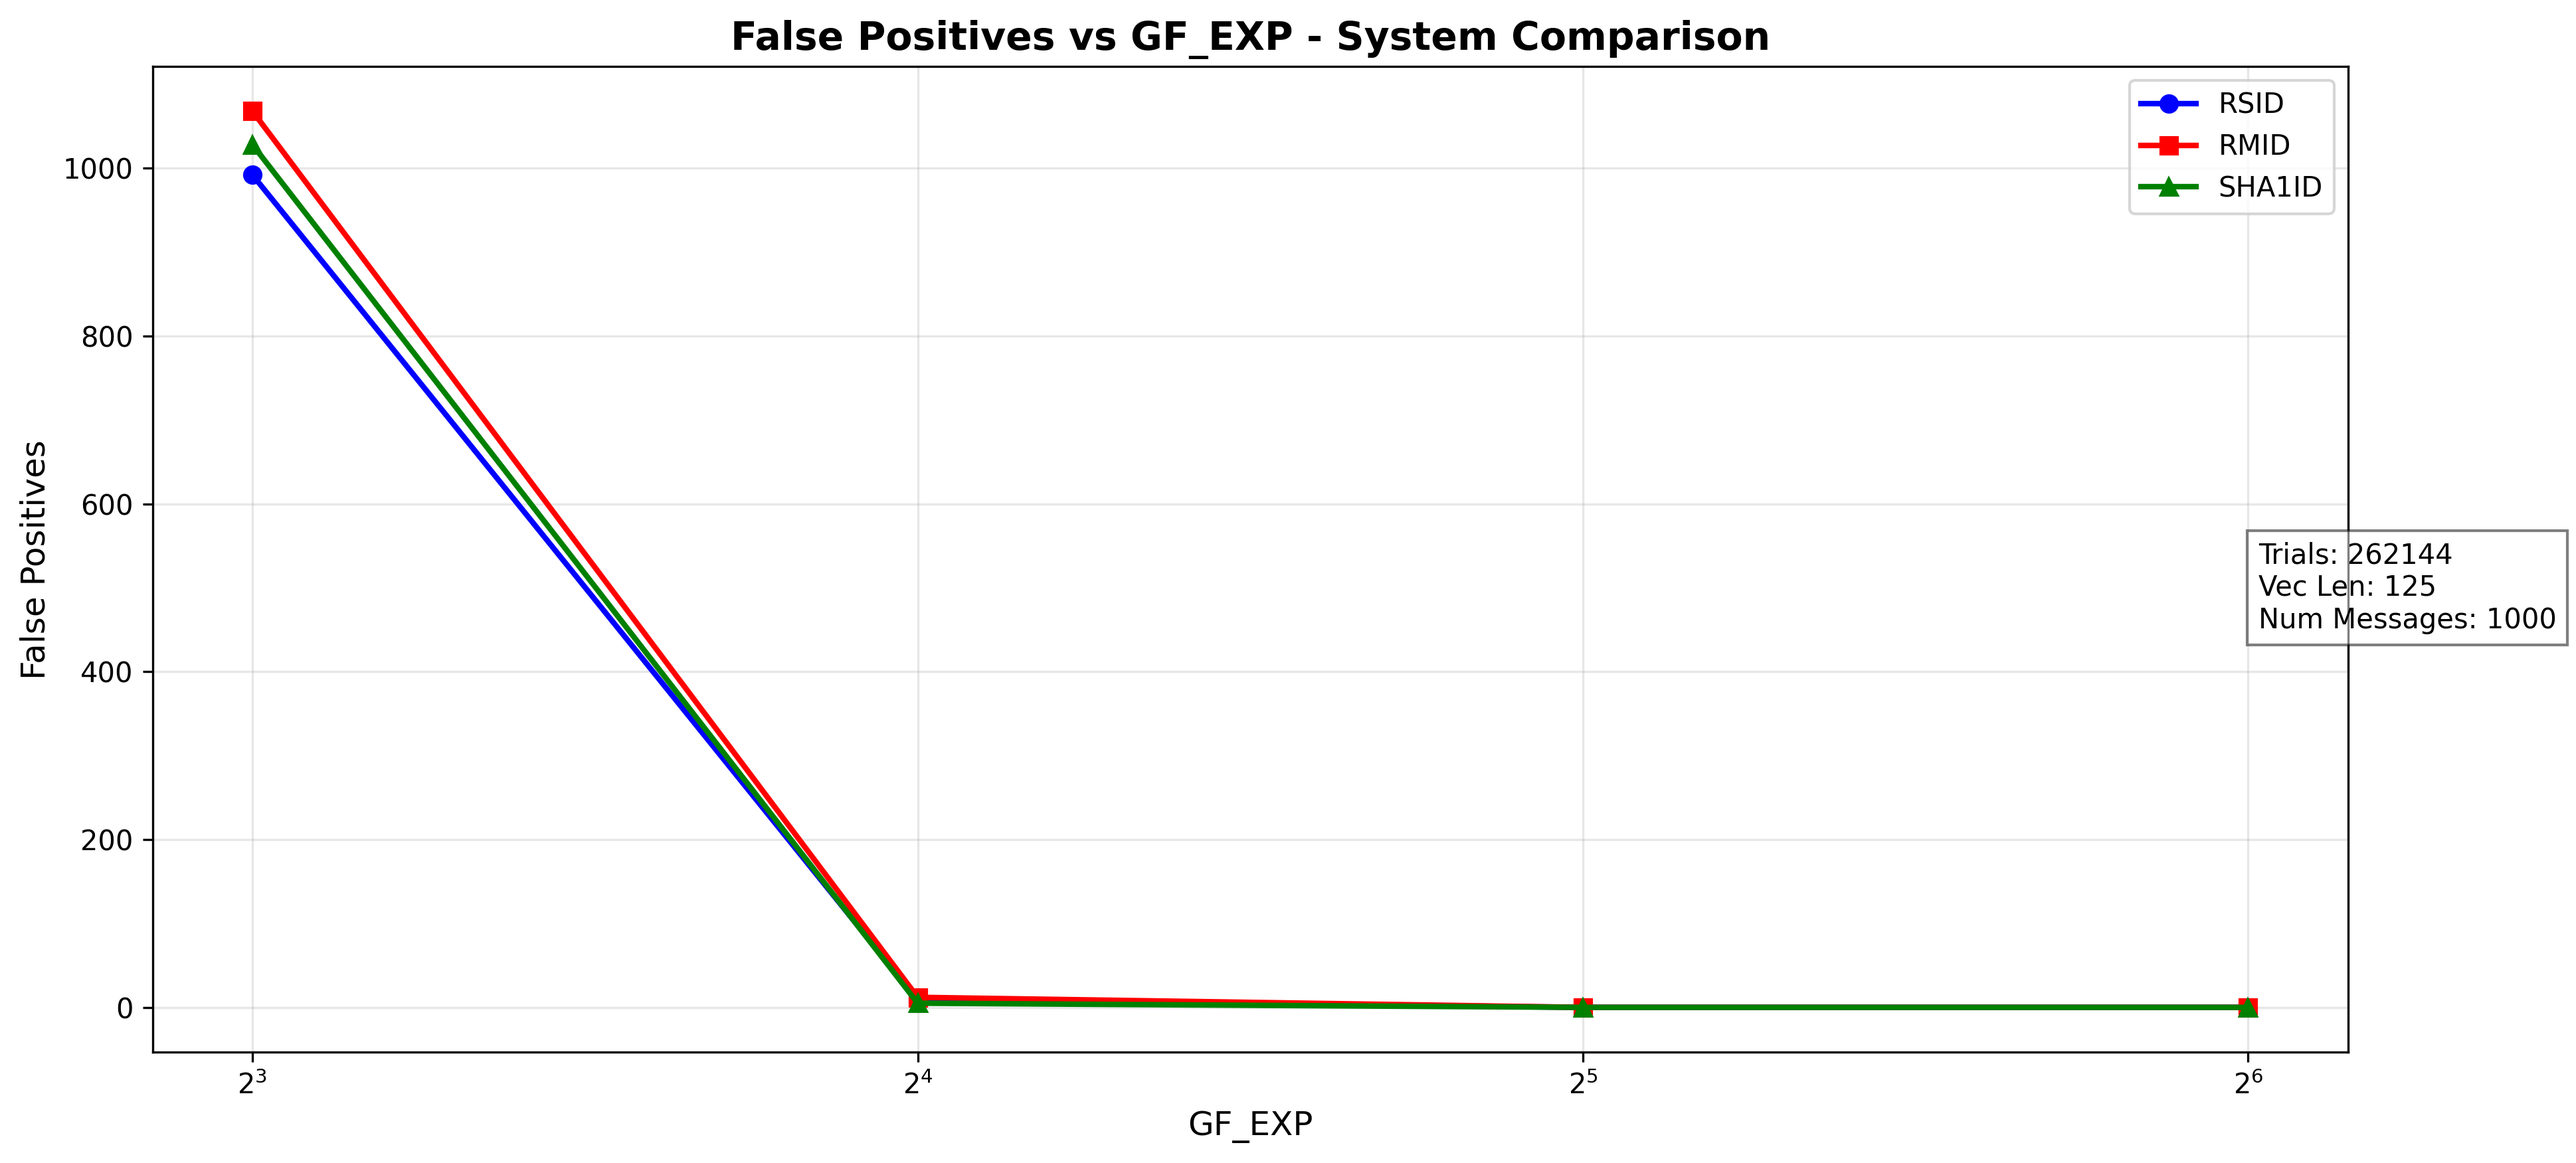
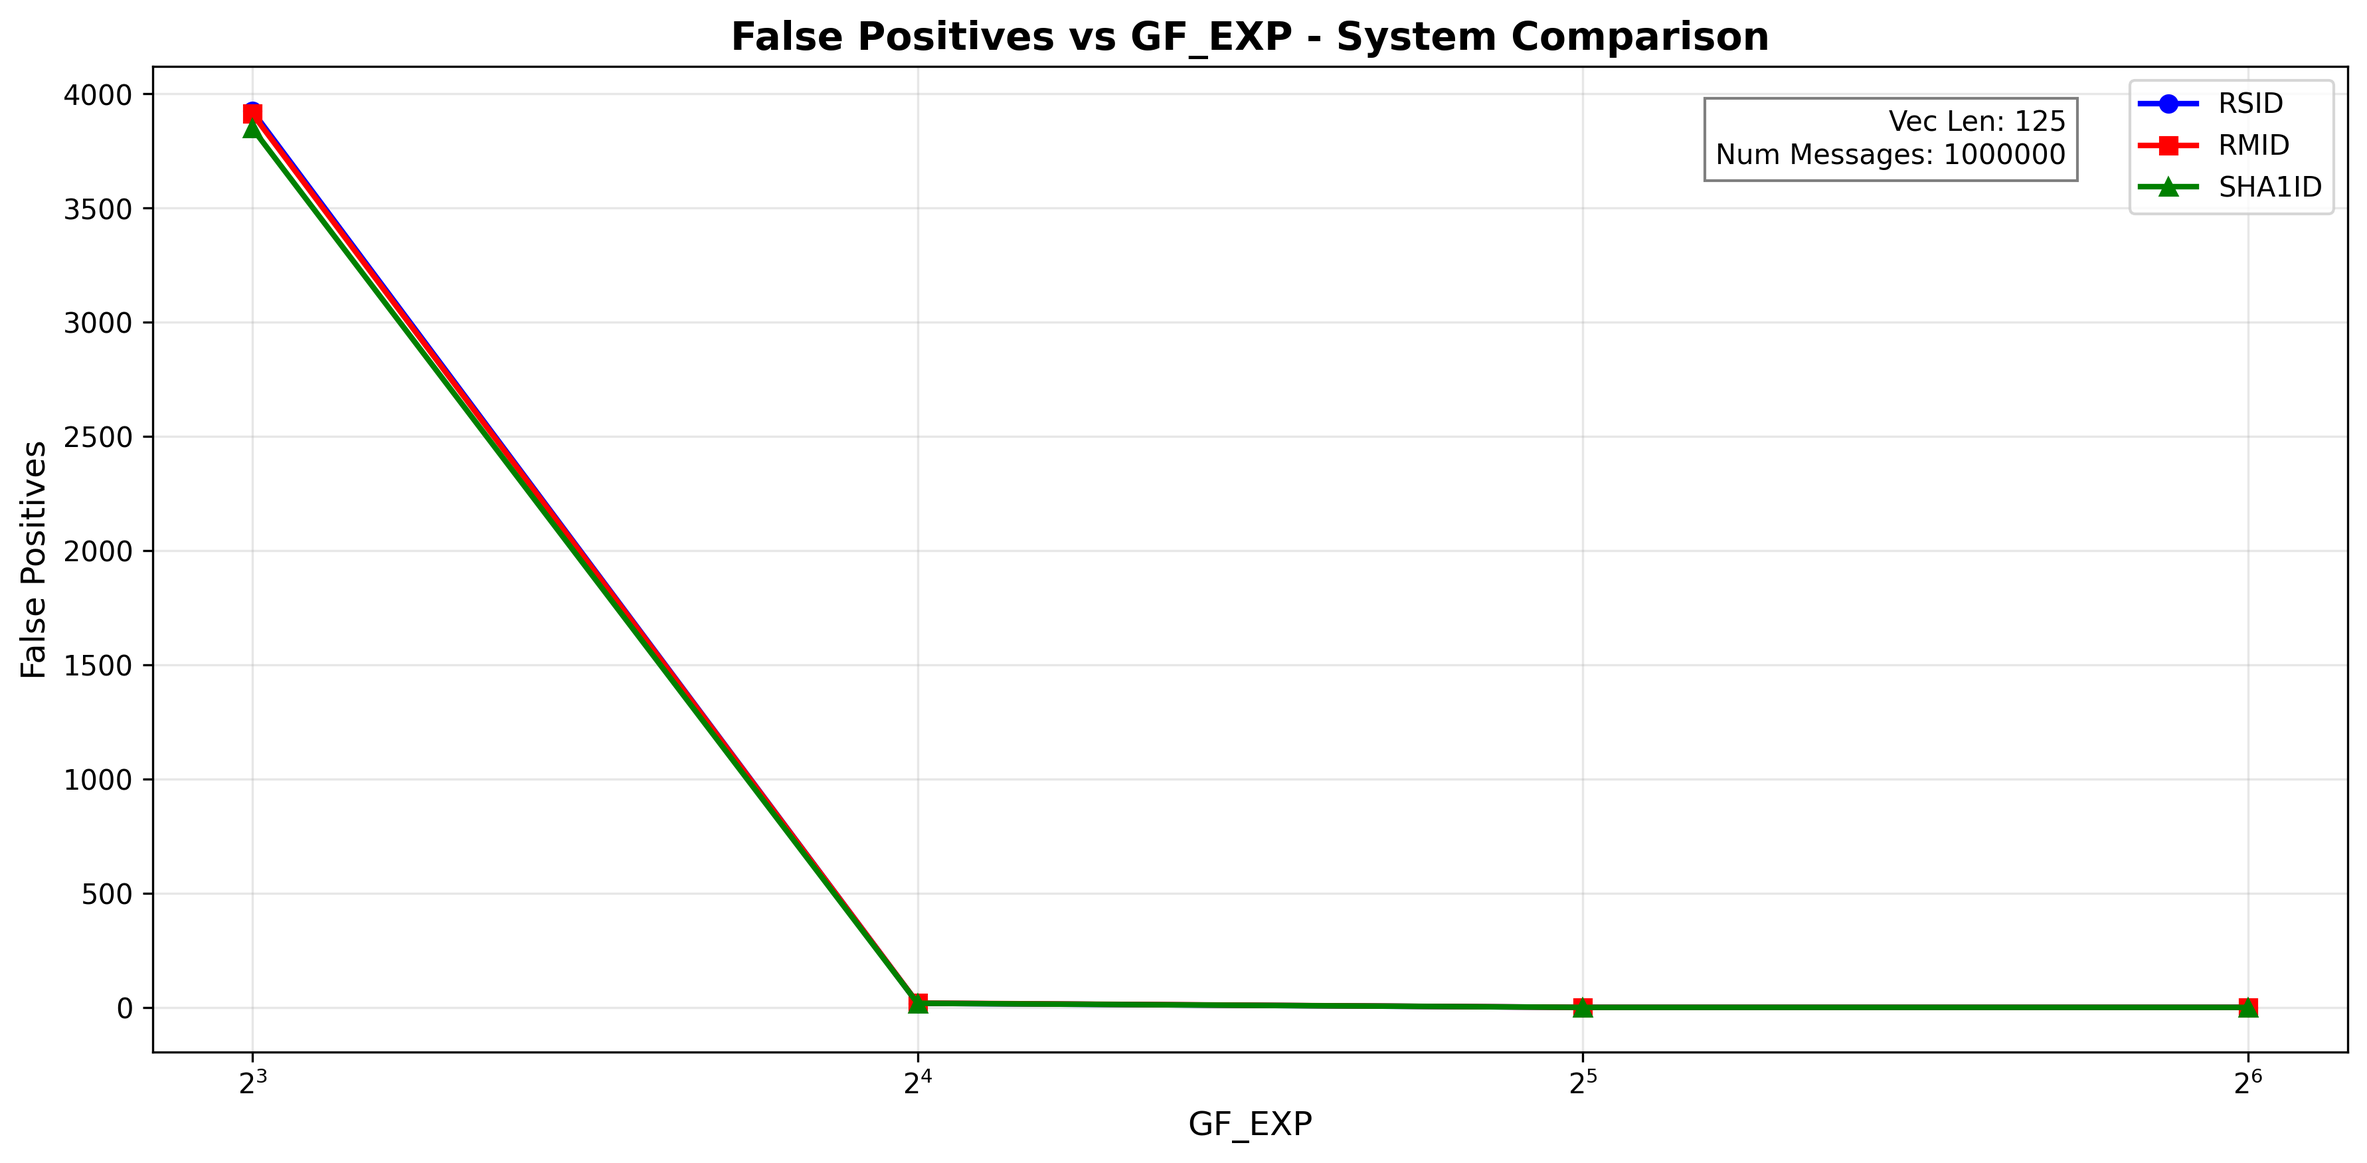
adapt to updated framework & separated plot pyton file & plots for 1000000 trials

diff --git a/analyses/gf_exp_influence/gf_exp.py b/analyses/gf_exp_influence/gf_exp.py
@@ -12,6 +12,7 @@ from framework import create_id_system, generate_test_messages
 import matplotlib.pyplot as plt
 import numpy as np
 import time
+import json
 
 def main():
     print("=" * 50)
@@ -20,10 +21,8 @@ def main():
 
     # Range of gf_exp values to test
     gf_exp_values = [8, 16, 32, 64]
-    num_messages = 1000  # Number of messages to generate for each gf_exp
+    num_messages = 1000000  # Number of messages to generate for each gf_exp
     vec_len = 125  # Fixed vector length for this test 1000bit
-    trials = 2**18  # Number of trials for each system evaluation
-    #2**18 = 250000
 
     # Create systems as a dictionary for compare_systems
     system_types = [
@@ -33,157 +32,50 @@ def main():
     ]
 
     # Store results for each system
-    system_results = {name: {'gf_exp': [], 'reliability': [], 'false_positives': [], 'exec_time': [], 'fp_rate': []} for name, _ in system_types}
+    system_results = {name: {'gf_exp': [], 'false_positives': [], 'exec_time': [], 'fp_rate': []} for name, _ in system_types}
 
     for gf_exp in gf_exp_values:
         print(f"\nEvaluating with GF_EXP: {gf_exp}")
-        # Generate test messages for this gf_exp
-        messages = generate_test_messages(vec_len=vec_len, gf_exp=gf_exp, count=num_messages)
         systems = {name: make_sys(gf_exp) for name, make_sys in system_types}
 
         metrics = IdMetrics.compare_systems(
-            systems,
-            messages,
-            num_trials=trials, 
-            timing_iterations=1000,
-            p_true_positive=0
+            systems=systems,
+            num_messages=num_messages,
+            vec_len=vec_len,
+            message_subset_size=0
         )
 
         # Store results for each system
         for system_name, system_metrics in metrics.items():
             system_results[system_name]['gf_exp'].append(gf_exp)
-            system_results[system_name]['reliability'].append(system_metrics["reliability"])
             system_results[system_name]['false_positives'].append(system_metrics["false_positives"])
             system_results[system_name]['exec_time'].append(system_metrics["avg_execution_time_ms"])
             system_results[system_name]['fp_rate'].append(system_metrics["false_positive_rate"])
 
     #TODO: Analyze different time metrics
 
-    # Plot reliability vs gf_exp
-    plt.figure(figsize=(12, 6))
-    colors = ['blue', 'red', 'green', 'orange', 'purple']
-    markers = ['o', 's', '^', 'D', 'v']
-    for i, (system_name, results) in enumerate(system_results.items()):
-        plt.plot(results['gf_exp'], results['reliability'],
-                 marker=markers[i % len(markers)],
-                 color=colors[i % len(colors)],
-                 label=system_name,
-                 linewidth=2,
-                 markersize=6)
-    plt.title('Reliability vs GF_EXP - System Comparison', fontsize=14, fontweight='bold')
-    plt.xlabel('GF_EXP', fontsize=12)
-    plt.ylabel('Reliability', fontsize=12)
-    plt.grid(True, alpha=0.3)
-    plt.xscale('log', base=2)
-    plt.yscale('log')
-    plt.legend(fontsize=10)
-    plt.xticks(gf_exp_values)
-    plt.tight_layout()
-    plt.savefig('analyses/gf_exp_influence/reliability_vs_gf_exp.png', dpi=300, bbox_inches='tight')
+    # Save system results to a file for analysis in a different script
 
-    # Plot execution time vs gf_exp
-    plt.figure(figsize=(12, 6))
-    for i, (system_name, results) in enumerate(system_results.items()):
-        plt.plot(results['gf_exp'], results['exec_time'],
-                 marker=markers[i % len(markers)],
-                 color=colors[i % len(colors)],
-                 label=system_name,
-                 linewidth=2,
-                 markersize=6)
-    plt.title('Execution Time vs GF_EXP - System Comparison', fontsize=14, fontweight='bold')
-    plt.xlabel('GF_EXP', fontsize=12)
-    plt.ylabel('Execution Time (s)', fontsize=12)
-    plt.grid(True, alpha=0.3)
-    plt.xscale('log', base=2)
-    plt.yscale('log')
-    plt.legend(fontsize=10)
-    plt.xticks(gf_exp_values)
-    plt.tight_layout()
-    plt.savefig('analyses/gf_exp_influence/exec_time_vs_gf_exp.png', dpi=300, bbox_inches='tight')
+    output_file = 'analyses/gf_exp_influence/system_results2.json'
+    os.makedirs(os.path.dirname(output_file), exist_ok=True)
 
-    # Plot false positives vs GF_EXP
-    plt.figure(figsize=(12, 6))
-    colors = ['blue', 'red', 'green', 'orange', 'purple']
-    markers = ['o', 's', '^', 'D', 'v']
-    for i, (system_name, results) in enumerate(system_results.items()):
-        plt.plot(results['gf_exp'], results['false_positives'],
-                 marker=markers[i % len(markers)],
-                 color=colors[i % len(colors)],
-                 label=system_name,
-                 linewidth=2,
-                 markersize=6)
-    plt.title('False Positives vs GF_EXP - System Comparison', fontsize=14, fontweight='bold')
-    plt.xlabel('GF_EXP', fontsize=12)
-    plt.ylabel('False Positives', fontsize=12)
-    plt.grid(True, alpha=0.3)
-    plt.xscale('log', base=2)
-    plt.legend(fontsize=10)
-    plt.xticks(gf_exp_values)
+    # Include additional metadata in the results
+    results_with_metadata = {
+        "vec_len": vec_len,
+        "num_messages": num_messages,
+        "gf_exp_values": gf_exp_values,
+        "system_results": system_results
+    }
 
-    # Add textbox with trials, vec_len, and num_messages
-    textstr = f'Trials: {trials}\nVec Len: {vec_len}\nNum Messages: {num_messages}'
-    plt.gcf().text(0.95, 0.5, textstr, fontsize=10, verticalalignment='center', bbox=dict(facecolor='white', alpha=0.5))
+    with open(output_file, 'w') as f:
+        json.dump(results_with_metadata, f, indent=4)
 
-    plt.tight_layout()
-    plt.savefig('analyses/gf_exp_influence/false_positives_vs_gf_exp.png', dpi=300, bbox_inches='tight')
+    print(f"System results saved to {output_file}")
 
+    return
 
-    # Plot false positive rate vs gf_exp
-    plt.figure(figsize=(12, 6))
-    for i, (system_name, results) in enumerate(system_results.items()):
-        plt.plot(results['gf_exp'], results['fp_rate'],
-                 marker=markers[i % len(markers)],
-                 color=colors[i % len(colors)],
-                 label=system_name,
-                 linewidth=2,
-                 markersize=6)
-    plt.title('False Positive Rate vs GF_EXP - System Comparison', fontsize=14, fontweight='bold')
-    plt.xlabel('GF_EXP', fontsize=12)
-    plt.ylabel('False Positive Rate', fontsize=12)
-    plt.grid(True, alpha=0.3)    
-    plt.xscale('log', base=2)
-    plt.yscale('log')
-    plt.legend(fontsize=10)
-    plt.xticks(gf_exp_values)
-    plt.tight_layout()
-    plt.savefig('analyses/gf_exp_influence/fp_rate_vs_gf_exp.png', dpi=300, bbox_inches='tight')
-
-    # Print summary statistics
-    print("\n" + "=" * 60)
-    print("SUMMARY STATISTICS")
-    print("=" * 60)
-    for system_name, results in system_results.items():
-        avg_reliability = np.mean(results['reliability'])
-        avg_time = np.mean(results['exec_time'])
-        print(f"{system_name:>8}: Avg Reliability = {avg_reliability:.4f}, Avg Exec Time = {avg_time:.3f}s")
-
-    # Print all false positives for each system
-    print("\n" + "=" * 60)
-    print("FALSE POSITIVES")
-    print("=" * 60)
-    for system_name, results in system_results.items():
-        print(f"{system_name}:")
-        for gf_exp, false_positives in zip(results['gf_exp'], results['false_positives']):
-            print(f"  GF_EXP {gf_exp}: False Positives = {false_positives}")
+    
 
 if __name__ == "__main__":
     main()
 
-
-'''
-RSID:
-  GF_EXP 8: False Positives = 992
-  GF_EXP 16: False Positives = 9
-  GF_EXP 32: False Positives = 0
-  GF_EXP 64: False Positives = 0
-RMID:
-  GF_EXP 8: False Positives = 1068
-  GF_EXP 16: False Positives = 12
-  GF_EXP 32: False Positives = 0
-  GF_EXP 64: False Positives = 0
-SHA1ID:
-  GF_EXP 8: False Positives = 1028
-  GF_EXP 16: False Positives = 5
-  GF_EXP 32: False Positives = 0
-  GF_EXP 64: False Positives = 0
-'''

diff --git a/analyses/gf_exp_influence/gf_exp_plots.py b/analyses/gf_exp_influence/gf_exp_plots.py
@@ -1,0 +1,148 @@
+import sys
+import os
+#Add path to parent directory to import framework modules
+sys.path.append(os.path.dirname(os.path.dirname(os.path.dirname(os.path.abspath(__file__)))))
+
+
+from framework import IdMetrics
+from framework import create_id_system, generate_test_messages
+import matplotlib.pyplot as plt
+import numpy as np
+import time
+import json
+
+def main():
+    print("=" * 50)
+    print("IDENTIFICATION SYSTEMS - GF_EXP INFLUENCE")
+    print("=" * 50)
+
+    # Read system results from the file
+    input_file = 'analyses/gf_exp_influence/system_results.json'
+
+    if os.path.exists(input_file):
+        with open(input_file, 'r') as f:
+            results_with_metadata = json.load(f)
+
+        print("System results loaded from", input_file)
+        #print(json.dumps(results_with_metadata, indent=4))  # Print the loaded data for verification
+    else:
+        print(f"File {input_file} does not exist.")
+
+    vec_len = results_with_metadata['vec_len']
+    num_messages = results_with_metadata['num_messages']
+    system_results = results_with_metadata['system_results']
+    gf_exp_values = results_with_metadata['gf_exp_values']
+
+    markers = ['o', 's', '^', 'D', 'v']
+    colors = ['blue', 'red', 'green', 'orange', 'purple']
+
+    # Plot execution time vs gf_exp
+    plt.figure(figsize=(12, 6))
+    for i, (system_name, results) in enumerate(system_results.items()):
+        plt.plot(results['gf_exp'], results['exec_time'],
+                 marker=markers[i % len(markers)],
+                 color=colors[i % len(colors)],
+                 label=system_name,
+                 linewidth=2,
+                 markersize=6)
+    plt.title('Execution Time vs GF_EXP - System Comparison', fontsize=14, fontweight='bold')
+    plt.xlabel('GF_EXP', fontsize=12)
+    plt.ylabel('Execution Time (s)', fontsize=12)
+    plt.grid(True, alpha=0.3)
+    plt.xscale('log', base=2)
+    plt.yscale('log')
+    plt.legend(fontsize=10)
+    plt.xticks(gf_exp_values)
+
+    # Add textbox with trials, vec_len, and num_messages
+    textstr = f'Vec Len: {vec_len}\nNum Messages: {num_messages}'
+    plt.gcf().text(0.87, 0.9, textstr, fontsize=10, verticalalignment='top', horizontalalignment='right', bbox=dict(facecolor='white', alpha=0.5))
+
+    plt.tight_layout()
+    plt.savefig('analyses/gf_exp_influence/exec_time_vs_gf_exp.png', dpi=300, bbox_inches='tight')
+
+    # Plot false positives vs GF_EXP
+    plt.figure(figsize=(12, 6))
+    colors = ['blue', 'red', 'green', 'orange', 'purple']
+    markers = ['o', 's', '^', 'D', 'v']
+    for i, (system_name, results) in enumerate(system_results.items()):
+        plt.plot(results['gf_exp'], results['false_positives'],
+                 marker=markers[i % len(markers)],
+                 color=colors[i % len(colors)],
+                 label=system_name,
+                 linewidth=2,
+                 markersize=6)
+    plt.title('False Positives vs GF_EXP - System Comparison', fontsize=14, fontweight='bold')
+    plt.xlabel('GF_EXP', fontsize=12)
+    plt.ylabel('False Positives', fontsize=12)
+    plt.grid(True, alpha=0.3)
+    plt.xscale('log', base=2)
+    plt.legend(fontsize=10)
+    plt.xticks(gf_exp_values)
+
+    # Add textbox with trials, vec_len, and num_messages
+    textstr = f'Vec Len: {vec_len}\nNum Messages: {num_messages}'
+    plt.gcf().text(0.87, 0.9, textstr, fontsize=10, verticalalignment='top', horizontalalignment='right', bbox=dict(facecolor='white', alpha=0.5))
+
+    plt.tight_layout()
+    plt.savefig('analyses/gf_exp_influence/false_positives_vs_gf_exp.png', dpi=300, bbox_inches='tight')
+
+
+    # Plot false positive rate vs gf_exp
+    plt.figure(figsize=(12, 6))
+    for i, (system_name, results) in enumerate(system_results.items()):
+        plt.plot(results['gf_exp'], results['fp_rate'],
+                 marker=markers[i % len(markers)],
+                 color=colors[i % len(colors)],
+                 label=system_name,
+                 linewidth=2,
+                 markersize=6)
+    plt.title('False Positive Rate vs GF_EXP - System Comparison', fontsize=14, fontweight='bold')
+    plt.xlabel('GF_EXP', fontsize=12)
+    plt.ylabel('False Positive Rate', fontsize=12)
+    plt.grid(True, alpha=0.3)    
+    plt.xscale('log', base=2)
+    plt.yscale('log')
+    plt.legend(fontsize=10)
+    plt.xticks(gf_exp_values)
+
+    # Add textbox with trials, vec_len, and num_messages
+    textstr = f'Vec Len: {vec_len}\nNum Messages: {num_messages}'
+    plt.gcf().text(0.87, 0.9, textstr, fontsize=10, verticalalignment='top', horizontalalignment='right', bbox=dict(facecolor='white', alpha=0.5))
+
+    plt.tight_layout()
+    plt.savefig('analyses/gf_exp_influence/fp_rate_vs_gf_exp.png', dpi=300, bbox_inches='tight')
+
+
+    # Print all false positives for each system
+    print("\n" + "." * 50)
+    print("FALSE POSITIVES")
+    print("." * 50)
+    for system_name, results in system_results.items():
+        print(f"{system_name}:")
+        for gf_exp, false_positives in zip(results['gf_exp'], results['false_positives']):
+            print(f"  GF_EXP {gf_exp}: False Positives = {false_positives}")
+
+    return
+
+if __name__ == "__main__":
+    main()
+
+
+'''
+RSID:
+  GF_EXP 8: False Positives = 992
+  GF_EXP 16: False Positives = 9
+  GF_EXP 32: False Positives = 0
+  GF_EXP 64: False Positives = 0
+RMID:
+  GF_EXP 8: False Positives = 1068
+  GF_EXP 16: False Positives = 12
+  GF_EXP 32: False Positives = 0
+  GF_EXP 64: False Positives = 0
+SHA1ID:
+  GF_EXP 8: False Positives = 1028
+  GF_EXP 16: False Positives = 5
+  GF_EXP 32: False Positives = 0
+  GF_EXP 64: False Positives = 0
+'''
